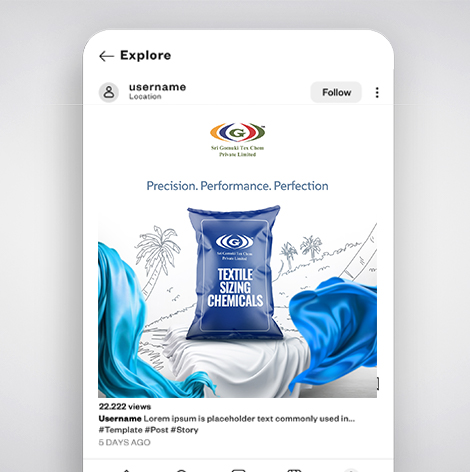
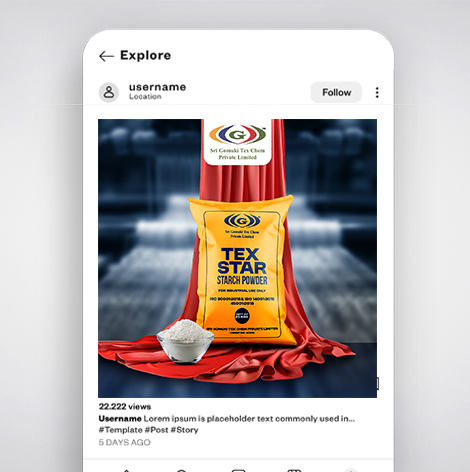
digital marketing popoup slider

diff --git a/app/(service)/digital-marketing-service/page.jsx b/app/(service)/digital-marketing-service/page.jsx
@@ -17,7 +17,8 @@ import EComFeatures from "@/components/service/e-commerceService1/EComFeatures";
 import WebFeatures from "@/components/service/e-commerceService1/WebFeatures";
 import DigitalFeatures from "@/components/service/e-commerceService1/DigitalFeatures";
 import ServicesCta from "@/components/service/e-commerceService1/ServicesCta";
-import ServicePortfolio from "@/components/service/e-commerceService1/portfolio";
+// import ServicePortfolio from "@/components/service/e-commerceService1/portfolio";
+import DigitalMarketingPortfolio from "@/components/service/e-commerceService1/digitalMarketingportfolio";
 
 export const metadata = {
   title: "E-commerce Development || Zing Studio",
@@ -293,52 +294,79 @@ export default function page() {
     {
       title: "Kumars Houston",
       image: "/images/services/digital-marketing/mockup-1.jpg",
-      className: "col-lg-3 col-md-3 col-sm-6",
+      className: "col-lg-4 col-md-4 col-sm-6",
       delay: "0.6s",
       duration: "1.12s",
-     link: "https://www.kumarmesshouston.com/"
+      posters: [
+        "/images/services/digital-marketing/kumars/16.jpeg",
+        "/images/services/digital-marketing/kumars/2.jpeg",
+        "/images/services/digital-marketing/kumars/3.jpeg",
+        "/images/services/digital-marketing/kumars/4.jpeg",
+       "/images/services/digital-marketing/kumars/5.jpeg",
+        "/images/services/digital-marketing/kumars/6.jpeg",
+        "/images/services/digital-marketing/kumars/7.jpeg",
+        "/images/services/digital-marketing/kumars/8.jpeg",
+        "/images/services/digital-marketing/kumars/9.jpeg",
+        "/images/services/digital-marketing/kumars/10.jpeg",
+        "/images/services/digital-marketing/kumars/11.jpeg",
+        "/images/services/digital-marketing/kumars/12.jpeg",
+       "/images/services/digital-marketing/kumars/13.jpeg",
+        "/images/services/digital-marketing/kumars/14.jpeg",
+        "/images/services/digital-marketing/kumars/15.jpeg",
+        "/images/services/digital-marketing/kumars/1.jpeg",
+        "/images/services/digital-marketing/kumars/17.jpeg",
+        "/images/services/digital-marketing/kumars/18.jpeg",
+        "/images/services/digital-marketing/kumars/19.jpeg",
+
+      ],
+    //  link: "https://www.kumarmesshouston.com/"
     },
-    {
-      title: "Vishwankar School",
-      image: "/images/services/digital-marketing/mockup-2.jpg",
-      className: "col-lg-3 col-md-3 col-sm-6",
-      delay: "0.6s",
-      duration: "1.3s",
-      link: "https://vishwankarschool.com/"
-    },
+    // {
+    //   title: "Vishwankar School",
+    //   image: "/images/services/digital-marketing/mockup-2.jpg",
+    //   className: "col-lg-3 col-md-3 col-sm-6",
+    //   delay: "0.6s",
+    //   duration: "1.3s",
+    //   // link: "https://vishwankarschool.com/"
+    // },
     {
       title: "Gomuki",
       image: "/images/services/digital-marketing/mockup-3.jpg",
-      className: "col-lg-3 col-md-3 col-sm-6",
+      className: "col-lg-4 col-md-4 col-sm-6",
       delay: "0.9s",
       duration: "1.6s",
-    link: "https://srigomuki.com/"
+      posters: [
+        "/images/services/digital-marketing/gomuki/1.jpeg",
+        "/images/services/digital-marketing/gomuki/2.jpeg",
+        "/images/services/digital-marketing/gomuki/3.jpeg",
+        "/images/services/digital-marketing/gomuki/4.jpeg",
+       "/images/services/digital-marketing/gomuki/5.jpeg",
+        "/images/services/digital-marketing/gomuki/6.jpeg",
+        "/images/services/digital-marketing/gomuki/7.jpeg",
+      ],
+    // link: "https://srigomuki.com/"
     },
     {
       title: "Tirumalai Textiles",
       image: "/images/services/digital-marketing/mockup-4.jpg",
-      className: "col-lg-3 col-md-3 col-sm-6",
+      className: "col-lg-4 col-md-4 col-sm-6",
       delay: "0.3s",
       duration: "1.9s",
-     link: "https://tirumalaitextiles.com/"
+      posters: [
+        "/images/services/digital-marketing/tirumalai/1.jpeg",
+        "/images/services/digital-marketing/tirumalai/2.jpeg",
+        "/images/services/digital-marketing/tirumalai/3.jpeg",
+        "/images/services/digital-marketing/tirumalai/4.jpeg",
+       "/images/services/digital-marketing/tirumalai/5.jpeg",
+        "/images/services/digital-marketing/tirumalai/6.jpeg",
+        "/images/services/digital-marketing/tirumalai/7.jpeg",
+        "/images/services/digital-marketing/tirumalai/8.jpeg",
+        "/images/services/digital-marketing/tirumalai/9.jpeg",
+        
+      ],
+    //  link: "https://tirumalaitextiles.com/"
     },
 
-    // {
-    //   title: "Prade Jewels",
-    //   image: "/images/services/E-commerce/mockup-6.jpg",
-    //   className: "col-lg-6 col-md-6 col-sm-6",
-    //   delay: "0.9s",
-    //   duration: "1.15s",
-    //   link:"https://prade.in/"
-    // },
-    // {
-    //   title: "Filmode Fashon",
-    //   image: "/images/services/E-commerce/mockup-1.jpg",
-    //   className: "col-lg-6 col-md-6 col-sm-6",
-    //   delay: "0.3s",
-    //   duration: "1s",
-    //   link:"https://filmodefashion.com/"
-    // },
   ];
 
   const faqData = [
@@ -491,7 +519,9 @@ export default function page() {
 
         <Features features={features} />
 
-        <ServicePortfolio portfolioItems={portfolioItems} portfolioContent={portfolioContent} />
+        {/* <ServicePortfolio portfolioItems={portfolioItems} portfolioContent={portfolioContent} /> */}
+
+        <DigitalMarketingPortfolio portfolioItems={portfolioItems} portfolioContent={portfolioContent} />
 
         <FAQ faqData={faqData} />
 

diff --git a/components/service/e-commerceService1/digitalMarketingportfolio.jsx b/components/service/e-commerceService1/digitalMarketingportfolio.jsx
@@ -1,0 +1,94 @@
+"use client";
+
+import { useEffect, useRef, useState } from "react";
+import Link from "next/link";
+import Lightbox, { CloseIcon } from "yet-another-react-lightbox";
+import "yet-another-react-lightbox/styles.css";
+
+
+export default function DigitalMarketingPortfolio({portfolioItems,portfolioContent}) {
+    const [open, setOpen] = useState(false);
+    const [index, setIndex] = useState(0);
+    const [selectedImages, setSelectedImages] = useState([]);
+  
+    const openLightbox = (images) => {
+      setSelectedImages(images.map((src) => ({ src }))); // Convert to Lightbox format
+      setIndex(0); // Start from the first image
+      setOpen(true);
+    };
+  
+    return (
+      <div
+        className="section-full content-inner-2 wow fadeIn bg-gray works"
+        data-wow-duration="2s"
+        data-wow-delay="0.6s"
+      >
+        <div className="container-fluid">
+          <div className="section-head style2 text-center">
+            <h2 className="title m-b10">Our Works</h2>
+            <p style={{ width: "80%" }}>{portfolioContent?.description}</p>
+          </div>
+  
+          <div className="row p-l0 sp10">
+            <div className="col-lg-12">
+              <ul
+                id="masonry"
+                className="dlab-gallery-listing gallery mfp-gallery text-center row"
+              >
+                {portfolioItems.map((item, i) => (
+                  <li
+                    key={i}
+                    className={`card-container cursor-pointer ${item.className}`}
+                    onClick={() => openLightbox(item.posters)}
+                  >
+                    <div
+                      className="dlab-media dlab-img-overlay1 dlab-img-effect portbox3 wow fadeInUp seth will-animate"
+                      data-wow-delay={item.delay}
+                      data-wow-duration={item.duration}
+                    >
+                      <img src={item.image} alt={item.title} />
+                      <div className="overlay-bx">
+                        <div className="portinner">
+                          <div className="port-up">
+                            <h3 className="port-title" style={{fontSize:"16px", color:"#fff"}}>
+                            {item.title}
+                              {/* <Link href="#">{item.title}</Link> */}
+                            </h3>
+                          </div>
+                        </div>
+                      </div>
+                    </div>
+                  </li>
+                ))}
+              </ul>
+            </div>
+          </div>
+        </div>
+  
+        {/* Lightbox for viewing images */}
+        <Lightbox open={open} close={() => setOpen(false)} slides={selectedImages} index={index}  styles={{
+          container: { backgroundColor: "#000000cf", }, // White background
+          slide: { display: "flex", alignItems: "center", justifyContent: "center",height:"100%" },
+          toolbar: { top: "100px" }, // Move close button toolbar down
+          button:{ fontSize:"15px"}
+        //   closeButton: { position: "absolute", top: "15px", right: "15px", fontSize: "24px" ,color:"#000"},
+        
+
+        }}
+        render={{
+            slide: ({ slide }) => (
+              <div style={{ display: "flex", alignItems: "center", justifyContent: "center", height: "100%" }}>
+                <img
+                  src={slide.src}
+                  alt=""
+                  style={{ height: "600px", maxWidth: "90%", objectFit: "contain" }} // Proper image styling
+                />
+              </div>
+            ),
+          
+          }}/>
+
+          
+      </div>
+    );
+  }

diff --git a/components/service/ZingAcademyCta.jsx b/components/service/ZingAcademyCta.jsx
@@ -17,7 +17,8 @@ export default function ZingAcademyCta() {
             <Image
           className="acdemy-img"
                               alt=""
-                              src="/images/elementbg/img-2.webp"
+                              // src="/images/elementbg/img-2.webp"
+                              src="/images/Academy/image.webp.png"
                               width="350"
                               height="300"
                             />

diff --git a/public/css/style.css b/public/css/style.css
@@ -20171,3 +20171,7 @@ input[type="radio"]+label:hover:before {
   }
 }
 
+.yarl__toolbar button svg{
+  width: 25px;
+}
+
